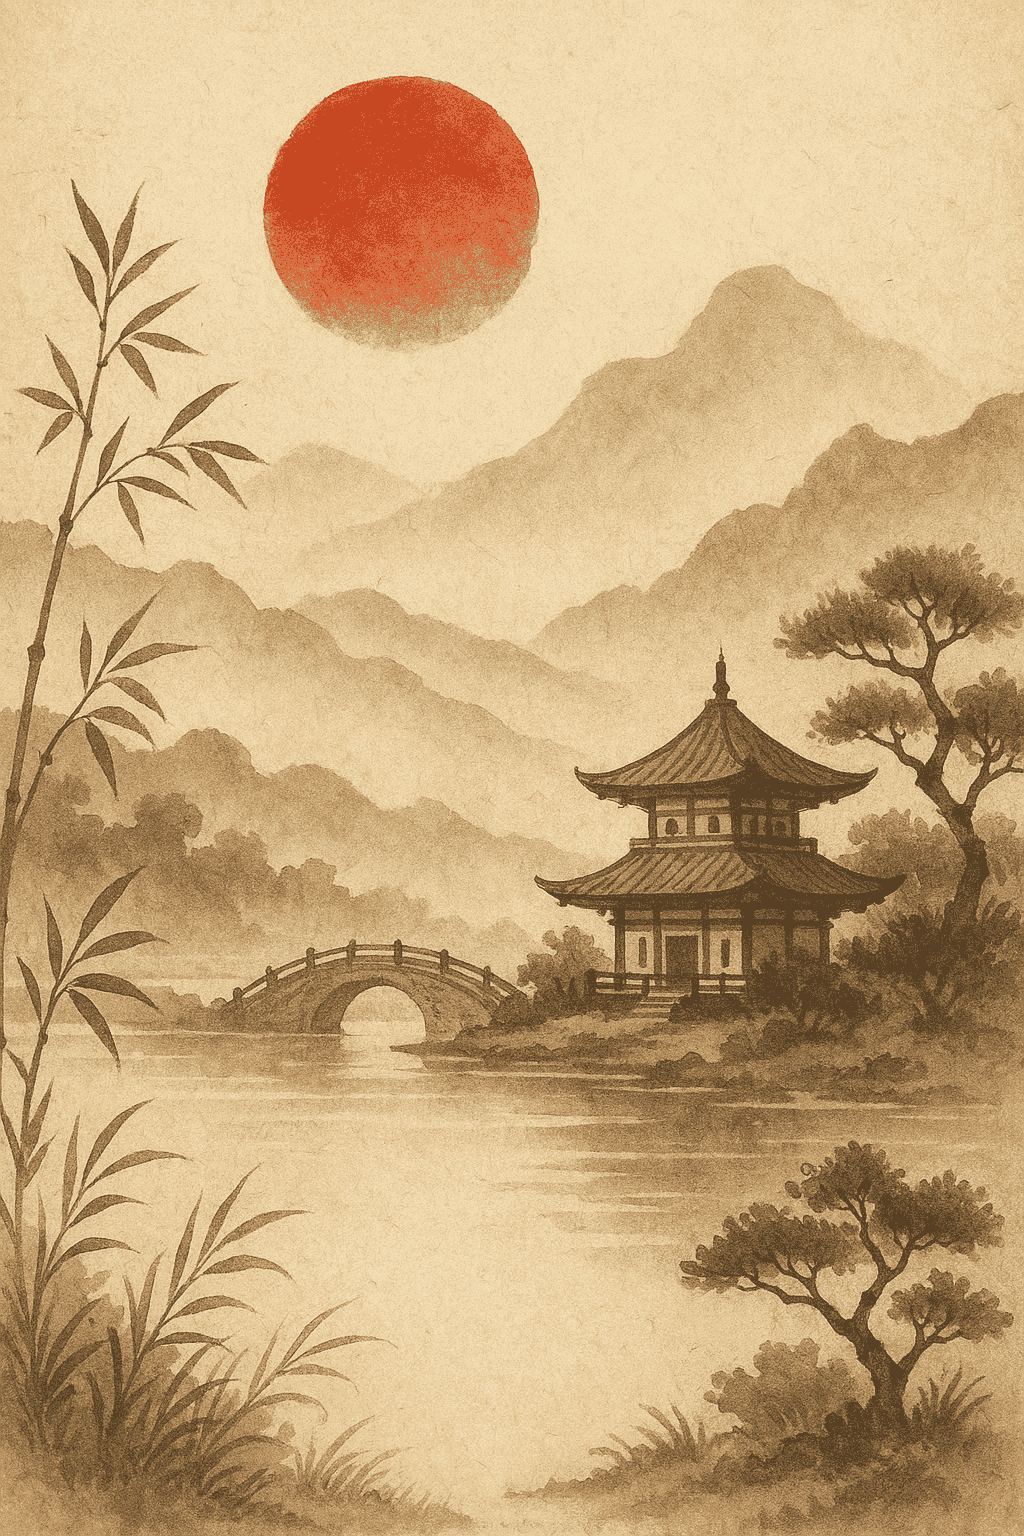
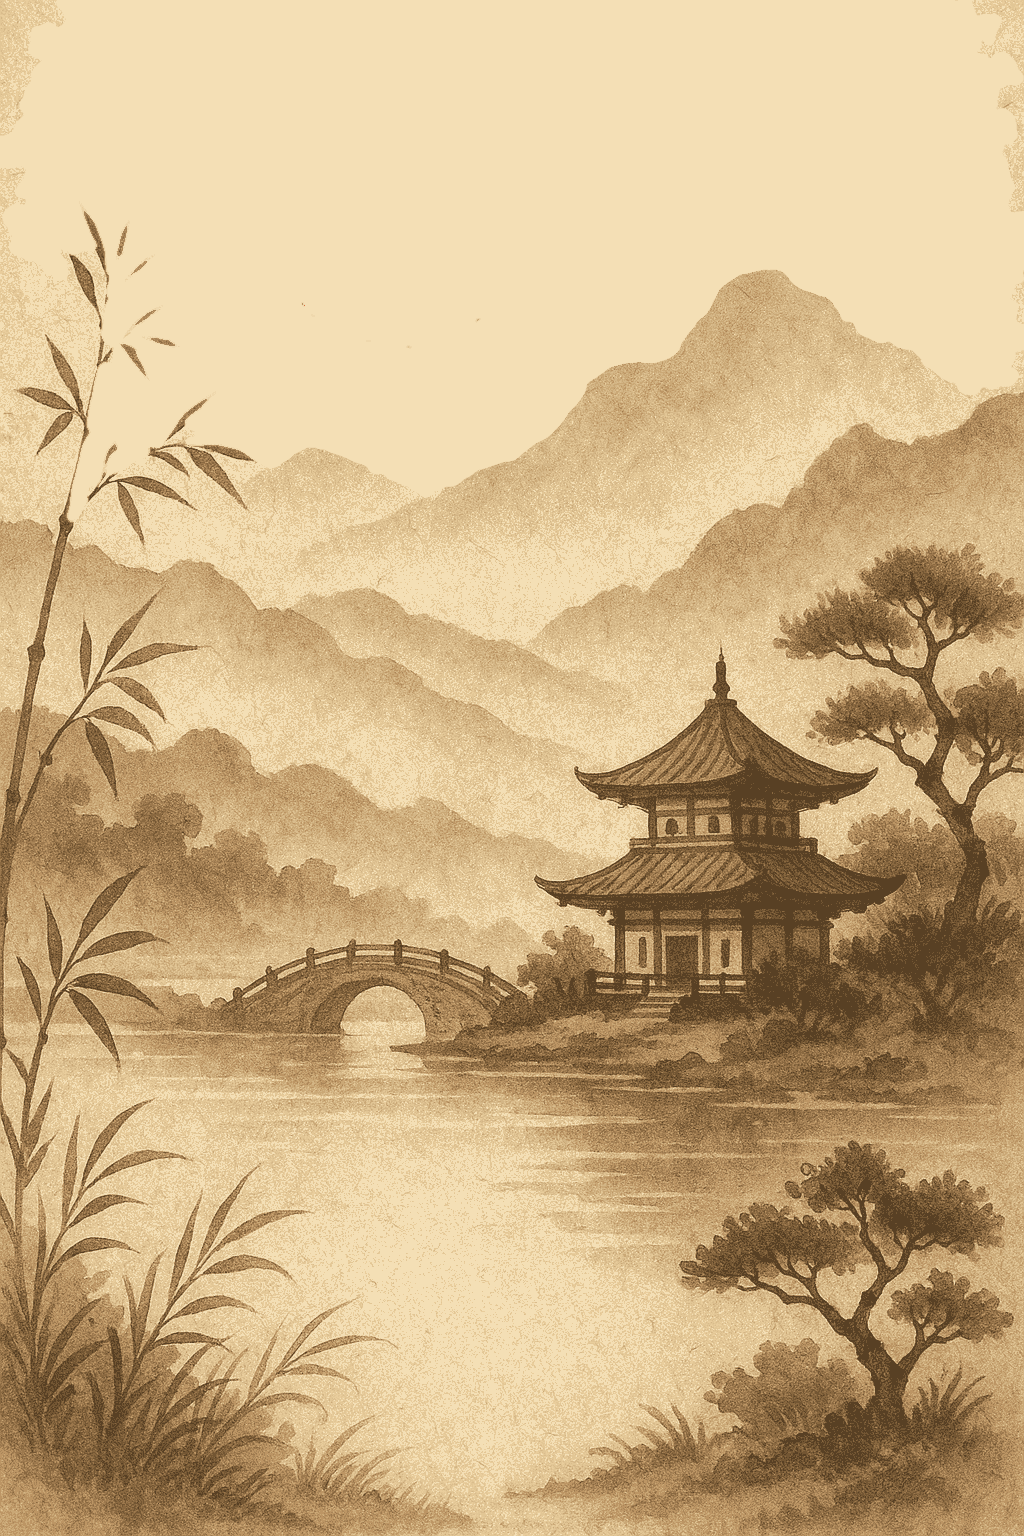
Switch to startup screen on application launch
Changed the main content pane from the game board screen to the startup screen, ensuring the application starts with the correct view. Additionally, updated an image resource in the background assets directory.

diff --git a/src/Vue/InterfaceGraphique.java b/src/Vue/InterfaceGraphique.java
@@ -110,7 +110,7 @@ public class InterfaceGraphique extends Component implements Runnable, Interface
         initialiserMenu();
         ajouterComportementRedimensionnement();
 
-        frame.setContentPane(ecranPlateauDeJeu);
+        frame.setContentPane(ecranDeDemarrage);
         frame.pack();
         frame.setVisible(true);
         frame.setFocusable(true);
